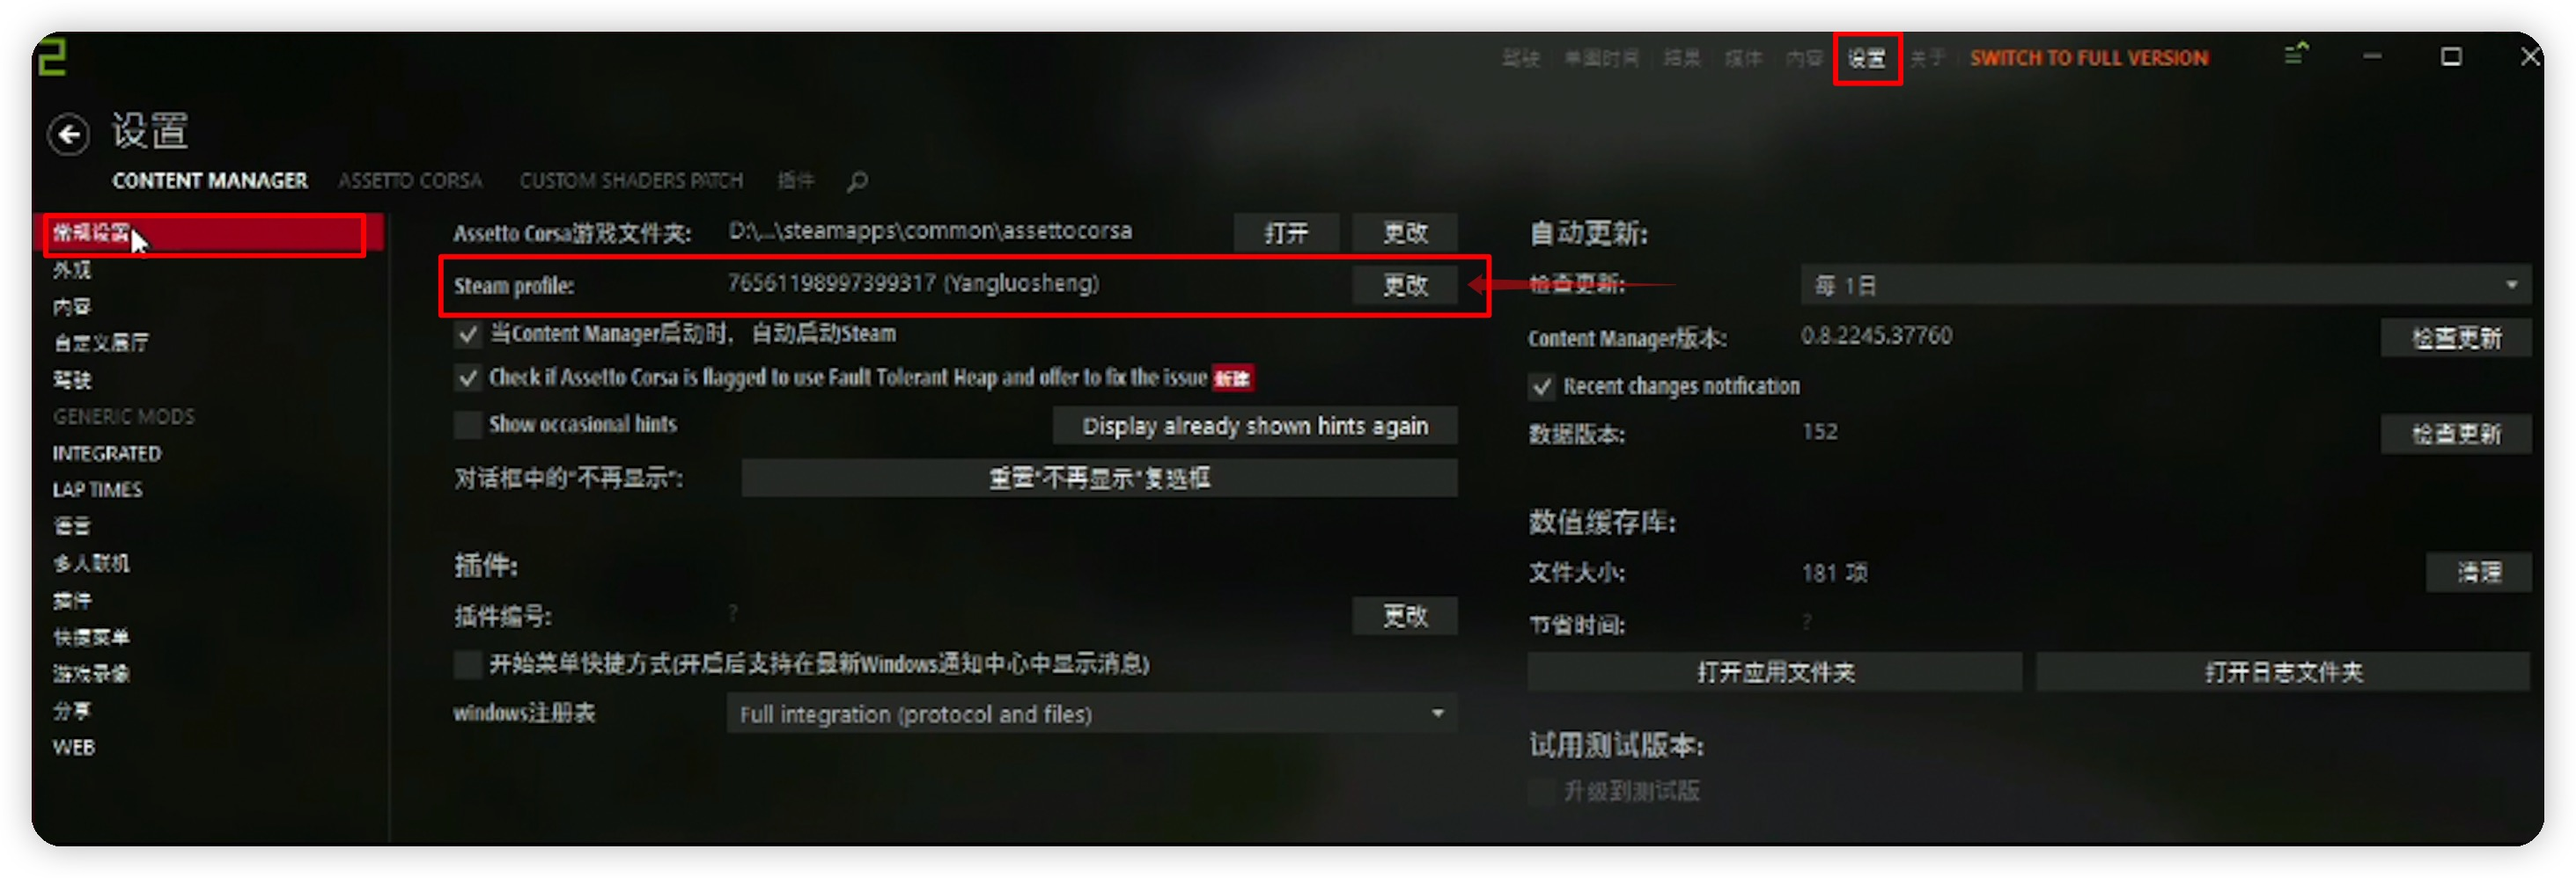
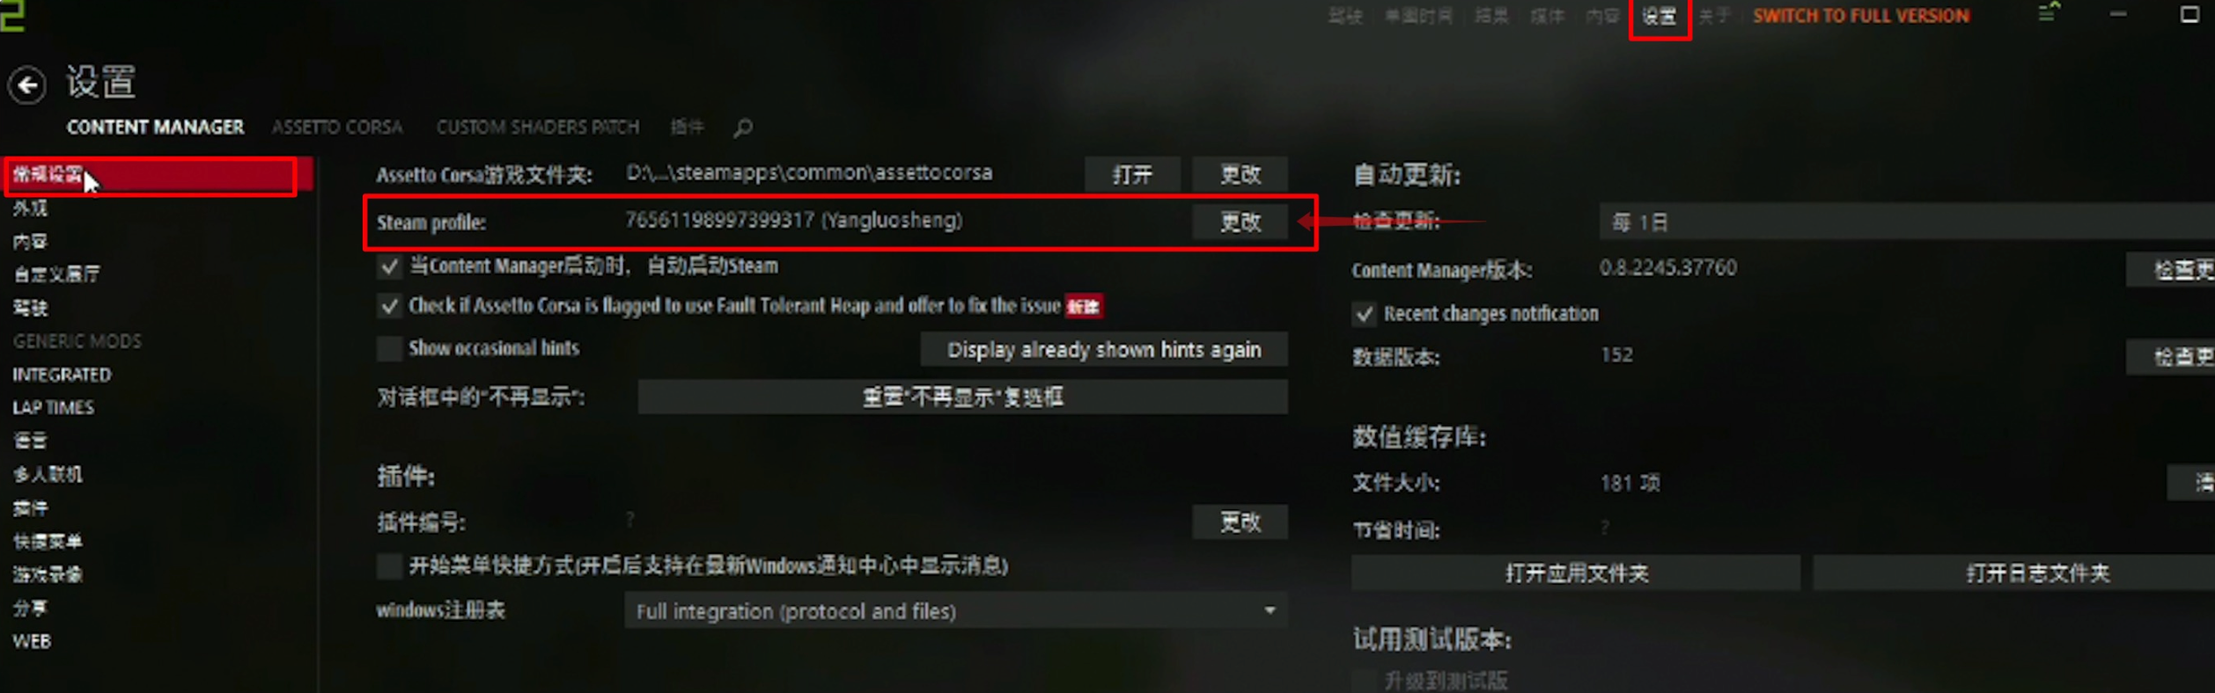
更新error和配套图片，~~屎山~~

diff --git a/docs/.vuepress/config.ts b/docs/.vuepress/config.ts
@@ -46,6 +46,27 @@ export default defineUserConfig({
     },
 
       '/zh/': {
+        
+        //侧边栏
+        /*
+        sidebar: {
+          
+          //给每个导航栏指定配置
+          '/guide/': [
+            {
+              text: 'Guide',
+              children: ['/guide/README.md', '/guide/getting-started.md'],
+            },
+          ],
+          '/reference/': [
+            {
+              text: 'Reference',
+              children: ['/reference/cli.md', '/reference/config.md'],
+            },
+          ],
+        },
+        */
+
         // 多语言下拉菜单的标题
         selectLanguageText: '选择语言',
         // 该语言在下拉菜单中的标签

diff --git a/docs/zh/page_CM/error.md b/docs/zh/page_CM/error.md
@@ -6,9 +6,11 @@
 ### *如何导入mod或插件？*
 
 ##### 解决方案
+`如果有条件，推荐在安装前以及安装后可以正常运行时备份游戏文件`
 
-- 将下载的压缩包直接拖到CM启动器中，如果成功识别右上角的菜单栏将会显示绿色TODO：补充图片
-- 有的
+- 将下载的压缩包直接拖到CM启动器中，如果成功识别右上角的菜单栏将会显示<div align=center> <img src="../../.vuepress/public/imgs/cm/cm_mod_Identified.png" alt="cm_mod_Identified" align=center; style="zoom:30%;" /> </div>，点击便可进入mod列表
+
+- 部分mod和插件则需要覆盖根目录，把下载文件解压，全选后拖入AC的根目录，然后在弹出的窗口中选择覆盖所有重复项
 
 
 ## 服务器问题
@@ -23,7 +25,9 @@
 
 - 换绑steam账号
 
-进入CM界面的设置 → CM（CONTENT MANGER）→ 常规设置
+<div align=center> <img src="../imgs/cm/error/cm_setting_general_settings_change_steam.png.png" alt="cm_setting_general_settings_change_steam" align=center; style="zoom:30%;" /> </div>
+
+设置→常规设置→Steam profile右侧的更改按钮更改（见上图），然后重启steam和CM
 
 `如果绑定的账户中有神力科莎但仍出现此错误请查看下一方法`
 
@@ -39,13 +43,14 @@
 
 如果错误仍存在请重新安装CSP-[安装CSP]()
 
-
 ------
 
 
 ## mod和补丁问题
 
 ### *导入mod压缩包文件后无法识别，显示灰色*
+
+<div align=center> <img src="../imgs/cm/error/cm_mod_install_connot_Identified.png" alt="cm_mod_install_connot_Identified.png" align=center; style="zoom:100%;" /> </div>
 
 ##### 错误原因
 
@@ -54,18 +59,21 @@
 ##### 解决方案
 
 - 如果是需要覆盖根目录的文件，请先解压文件，然后进入解压出的文件夹，全部选择并复制粘贴到游戏根目录，
-- 如果是多层包含多个包的文件，例如插件或赛道，车辆合集，需要自行解包，分类，例如将车辆文件统一放置到同一个文件夹，然后再拖入便可正常识别。
+- 如果是多层包含多个包的文件，例如插件、赛道、车辆合集，需要自行解包，分类，例如将车辆文件统一放置到同一个文件夹，然后再拖入便可正常识别。
 
 ------
 
-### *导入mod压缩包文件后无法识别，显示灰色*
+### *导入mod压缩包文件后无法识别，显示灰色和删除线和“FAILED”*
+
+<div align=center> <img src="../imgs/cm/error/cm_mod_install_FAILED.png" alt="cm_mod_install_FAILED" align=center; style="zoom:100%;" /> </div>
 
 ##### 错误原因
 
 `将同一个文件拖入两次`
 
 ##### 解决方案
-重启CM启动器后再拖入
+
+- 重启CM启动器后再拖入
 
 ------
 
@@ -83,9 +91,18 @@
 
 - 缺少原车型
 
-点击Error下的提示，在弹窗中选择`使其独立`，然后点击确定
+<div align=center> <img src="../imgs/cm/error/cm_car_vehicle_lacks.png" alt="cm_car_vehicle_lacks.png" align=center; style="zoom:30%;" /> </div> 
+
+点击Error下的提示，然后会弹出一个窗口
+
+<div align=center> <img src="../imgs/cm/error/cm_car_vehicle_lacks_popup window.png" alt="cm_car_vehicle_lacks_popup window.png" align=center; style="zoom:30%;" /> </div> 
+
+在弹窗中选择`使其独立`，然后点击确定
 
 - 缺少涂装图标
+
+<div align=center> <img src="../imgs/cm/error/cm_car_Painting _icon_missing.png" alt="cm_car_Painting _icon_missing.png" align=center; style="zoom:100%;" /> </div> 
+
 点击Error下的提示，在弹窗中根据个人喜好选择即可
 
 - 显示Error，文件丢失
@@ -117,27 +134,11 @@
 
 ##### 错误原因
 
+
 `将同一个文件拖入两次`
 
 ##### 解决方案
 重启CM启动器后再拖入
-
-
-## 其他问题
-
-### *进入多人联机页面无法加载*
-
-##### 错误原因
-
-`账户绑定错误导致的游戏验证错误`
-
-##### 解决方案
-
-- 换绑steam账号
-
-<div align=center> <img src="../imgs/cm/error/cm_setting_general_settings_change_steam.png" alt="cm_setting_general_settings_change_steam" align=center; style="zoom:30%;" /> </div>
-
-进入 设置→常规设置→Steam profile右侧的更改按钮更改（见上图），然后重启steam和CM
 
 ------
 
@@ -201,6 +202,10 @@
 
 ##### 解决方案
 
-进入CM界面的设置 → CM（CONTENT MANGER）→ 常规设置，找到右边的`数值缓存库`中的`打开应用文件夹按钮`和`打开日志文件夹`，点击这两个按钮，点击后会弹出两个文件夹页面，将文件夹内的文件全部删除（**不要删除文件夹本身！**），然后重新打开CM
+<div align=center> <img src="../imgs/cm/error/cm_fix_CleanCache_button.png" alt="cm_fix_CleanCache_button" align=center; style="zoom:100%;" /> </div>
+
+进入CM界面的设置 → CM（CONTENT MANGER）→ 常规设置，找到右边的`数值缓存库`中的`打开应用文件夹按钮`和`打开日志文件夹`，点击这两个按钮，点击后会弹出两个文件夹页面（见下图），将文件夹内的文件全部删除（**不要删除文件夹本身！**），然后重新打开CM
+
+<div align=center> <img src="../imgs/cm/error/cm_cache_file_window.png" alt="cm_cache_file_window" align=center; style="zoom:100%;" /> </div>
 
 ------

diff --git a/docs/zh/page_CM/install.md b/docs/zh/page_CM/install.md
@@ -3,9 +3,10 @@
 ### 基本设置
 
 #### 初始设置
-点击安装包会弹出以下界面
+将下载的安装包拖到桌面，然后点击安装包，会弹出以下界面
 
 #### 语言设置
+
+<div align=center> <img src="../img/../imgs/cm/error/cm_setting_lang.png" alt="cm_setting_lang" align=center; style="zoom:30%;" /> </div>
 点击顶部的`SETTINGS` → `LANGUAGE & REGIONAL`，在界面的`Language`选项中找到你想要的语言，点击，稍等片刻后点击下方的`Restart`按钮(重启按钮)即可，如果没有看到中文选项或选择并重启后未出现你设置的语言是正常现象，说明语言包还在加载，稍等2分钟后即可。
 
- 
